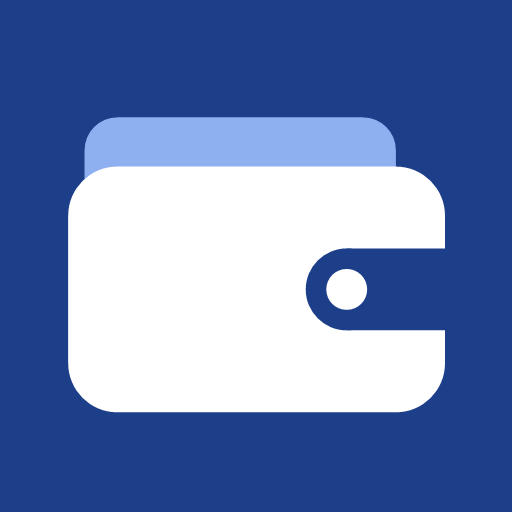
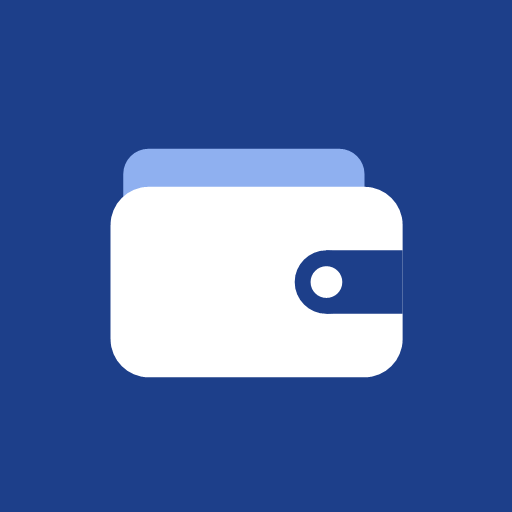
Ícono: fondo azul hasta los bordes (sin marco blanco en el celular)

Changed region(s): [[0.125, 0.2188, 0.875, 0.8125]]

diff --git a/sw.js b/sw.js
@@ -1,6 +1,6 @@
 // Guarda la app en el celular para que abra sin internet.
 // Al publicar una versión nueva del index.html, subí el número de VERSION.
-const VERSION = 'v26';
+const VERSION = 'v27';
 const CACHE = 'mis-cuentas-' + VERSION;
 const FILES = ['./', './index.html', './lock.js', './nav.js', './miles.js','./app.js','./styles.css','./manifest.webmanifest', './icon-192.png', './icon-512.png', './icon-maskable-512.png'];
 
